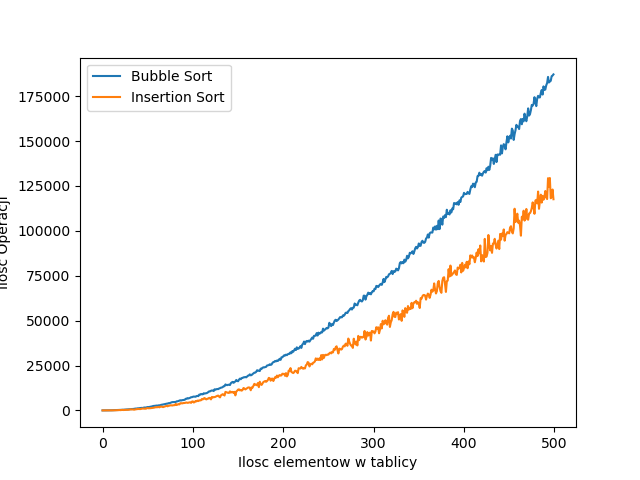
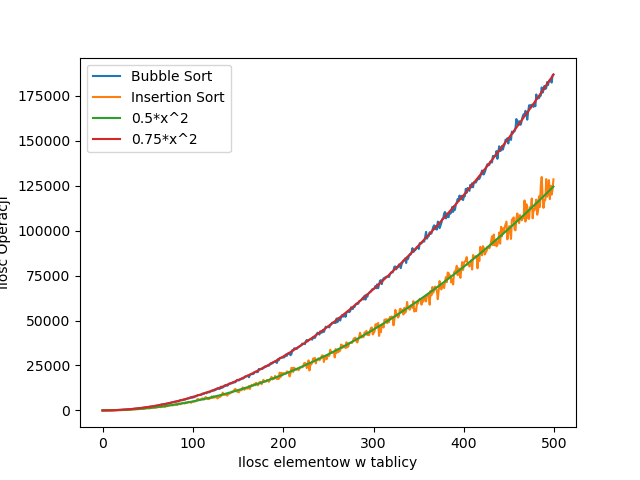
updated zad 1 with quadratic formulas

diff --git a/Zad. 1/sortowanie.py b/Zad. 1/sortowanie.py
@@ -68,6 +68,8 @@ print("Ilosc operacji przestawienia: ", out2[1])
 ilosc_operacji_bubble = []
 ilosc_operacji_insertion = []
 ilosc_elementow_tablicy = []
+wartosc_funkcji_kwadratowej1 = []
+wartosc_funkcji_kwadratowej2 = []
 
 for k in range(0, 500):
     B = []
@@ -78,12 +80,16 @@ for k in range(0, 500):
     out4 = insertionSort(B)
     ilosc_operacji_insertion.append(out4[0]+out4[1])
     ilosc_elementow_tablicy.append(k)
+    wartosc_funkcji_kwadratowej1.append(0.5*(k**2))
+    wartosc_funkcji_kwadratowej2.append(0.75*(k**2))
 
 
 
 plt.plot(ilosc_elementow_tablicy, ilosc_operacji_bubble)
 plt.plot(ilosc_elementow_tablicy, ilosc_operacji_insertion)
+plt.plot(ilosc_elementow_tablicy, wartosc_funkcji_kwadratowej1)
+plt.plot(ilosc_elementow_tablicy, wartosc_funkcji_kwadratowej2)
 plt.xlabel("Ilosc elementow w tablicy")
 plt.ylabel("Ilosc Operacji")
-plt.legend(["Bubble Sort", "Insertion Sort"])
+plt.legend(["Bubble Sort", "Insertion Sort", "0.5*x^2", "0.75*x^2"])
 plt.savefig("sortowanie.png")
